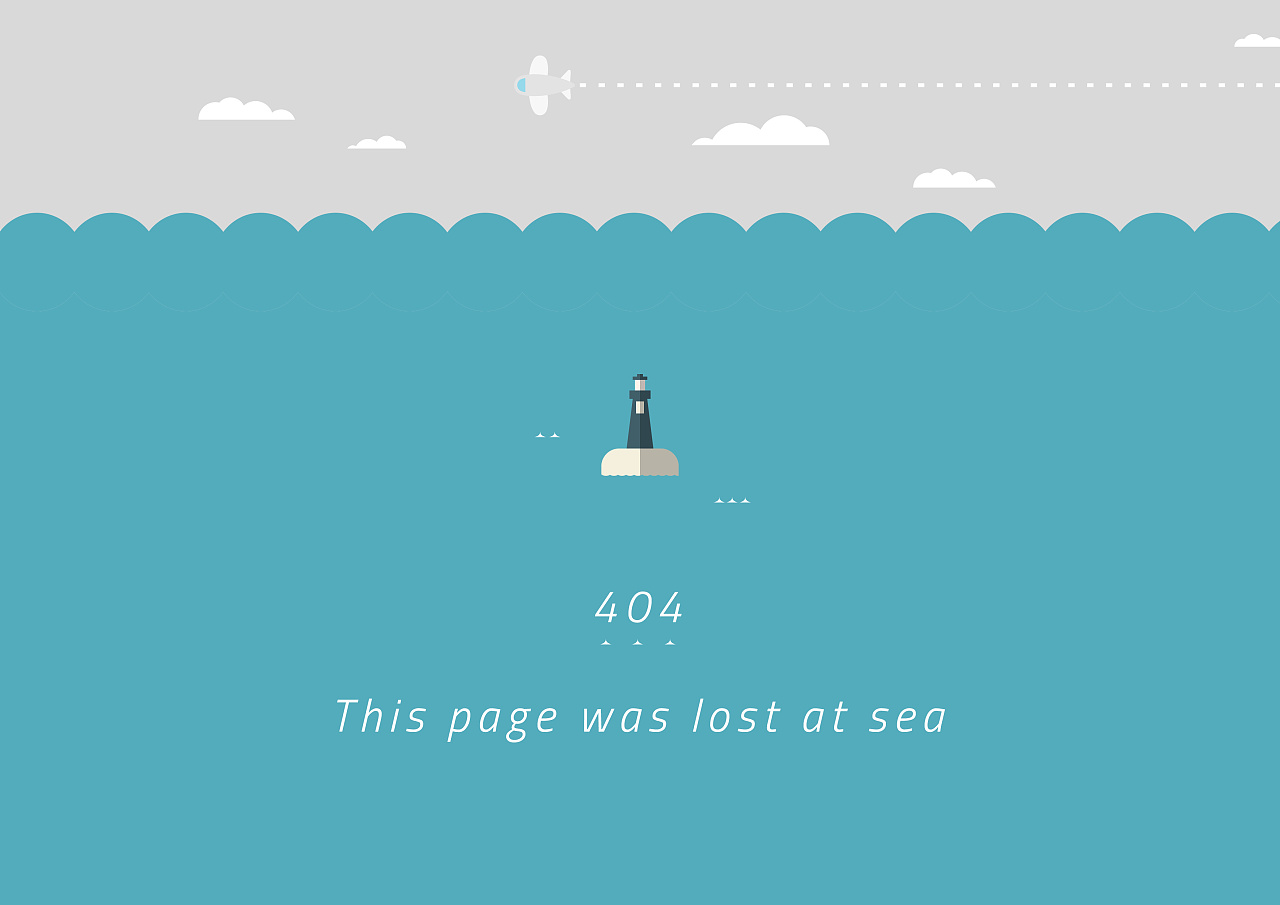
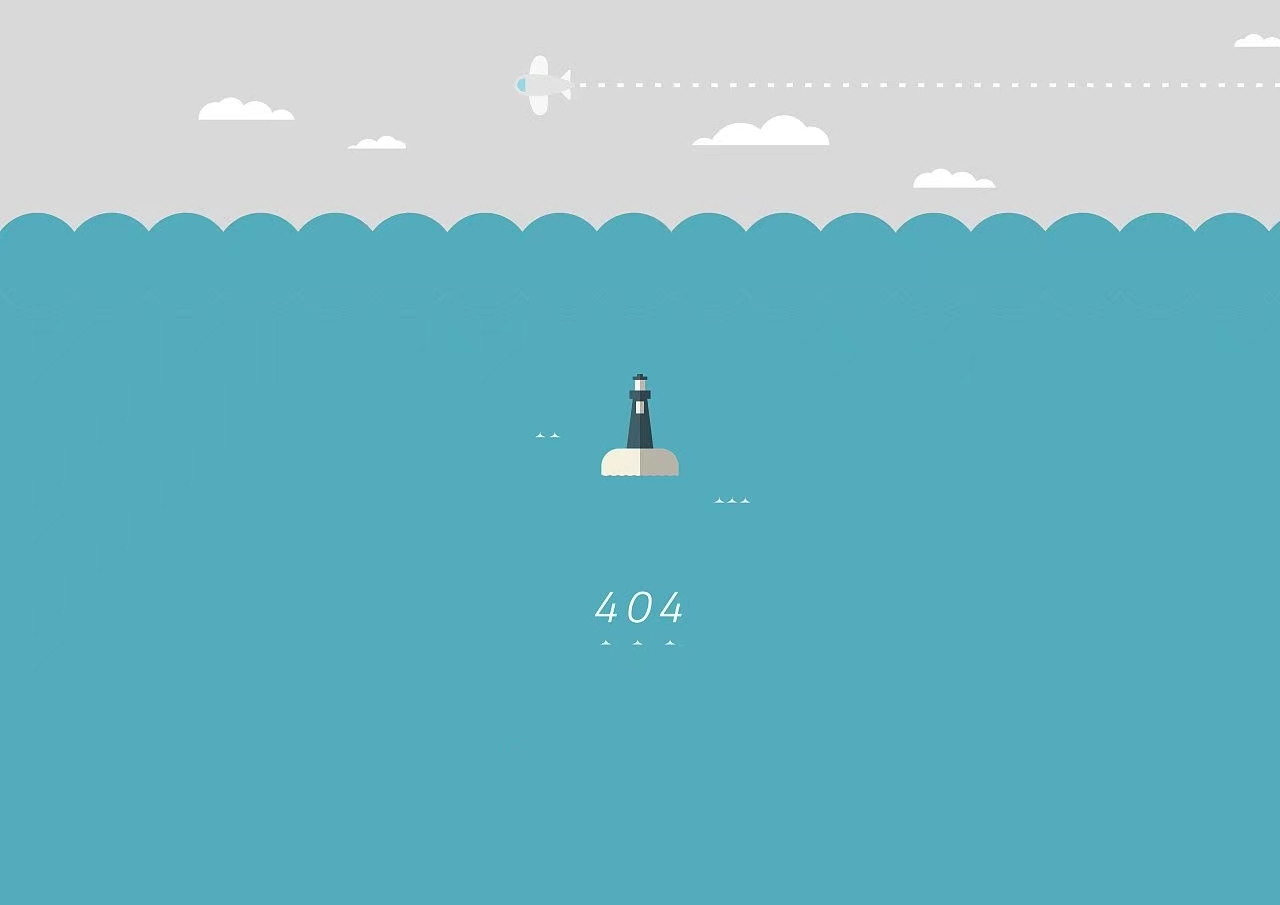
Site updated: 2023-04-30 10:57:10

Changed region(s): [[0.25, 0.7735, 0.75, 0.8354], [0.4688, 0.6497, 0.5312, 0.7116]]

diff --git a/404.html b/404.html
@@ -3,12 +3,8 @@
   <head>
     <meta charset="UTF-8" />
     <title>404</title>
-    <meta name="keywords" content="Hexo,Ayer,404,Design" />
-    <meta name="description" content="hexo theme ayer page 404." />
-    <meta
-      name="viewport"
-      content="width=device-width, initial-scale=1, maximum-scale=1"
-    />
+    <meta name="viewport"
+      content="width=device-width, initial-scale=1, maximum-scale=1" />
     <style>
       html,
       figure {
@@ -20,6 +16,8 @@
       body {
         margin: 20px;
         overflow: hidden;
+        background-image: url('images\404.jpg');
+        background-size: cover;
       }
 
       h1,
@@ -27,10 +25,6 @@
         width: 100%;
         text-align: center;
         color: #403e3e;
-      }
-
-      h3 a {
-        color: #0681d0;
       }
 
       .forrestgump img {
@@ -46,34 +40,33 @@
           width: 100%;
         }
       }
+
+      .back-link {
+        display: block;
+        width: 200px;
+        margin: 20px auto;
+        text-align: center;
+        font-size: 20px;
+        color: #fff;
+        background-color: #0681d0;
+        border-radius: 5px;
+        padding: 10px;
+        text-decoration: none;
+      }
+
+      .back-link:hover {
+        background-color: #56a6ff;
+      }
     </style>
   </head>
 
   <body>
     <div class="notfound">
-      <a class="notfound-link" href="/">
-        <img
-          width="40"
[1 lines of base64/hex data omitted]
-        />
-      </a>
-      <figure class="forrestgump">
-        <figcaption>
-          <h1>404<br />Not Found!</h1>
-          <h3>
-            Please check it, Maybe you should read
-            <a href="https://hexo.io/docs/">Hexo</a> and
-            <a href="https://github.com/Shen-Yu/hexo-theme-ayer">Ayer</a> Docs
-            carefully.
-          </h3>
-          <h3>
-            亲，获取不到该路径的页面呢，请检查一下哦，可能你还需要仔细阅读
-            <a href="https://hexo.io/docs/">Hexo</a> 和
-            <a href="https://shen-yu.gitee.io/2019/ayer/">Ayer</a> 的说明文档~
-          </h3>
-        </figcaption>
-        <img src="https://tvax4.sinaimg.cn/large/9156bd04ly1gzofhomcm4j20zk0p5jrw.jpg" />
-      </figure>
+      <h1>404</h1>
+      <h3>哎呀～您访问的页面不存在！<a href="/">返回首页</a></h3>
+      <div class="forrestgump">
+        <img src="images\404.jpg" alt="forest-gump" />
+      </div>
     </div>
   </body>
 </html>
